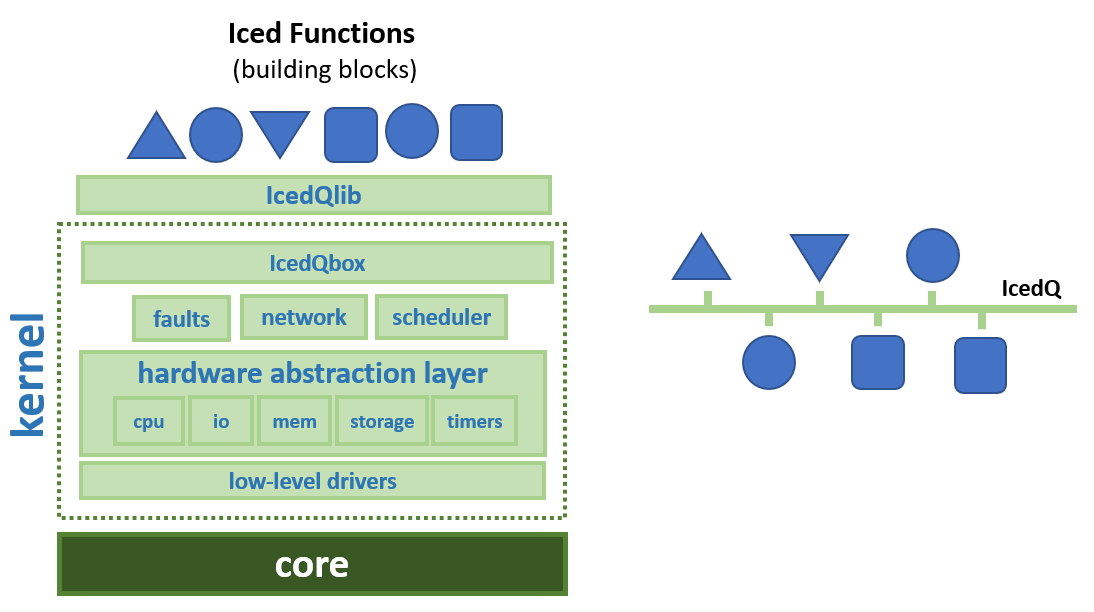
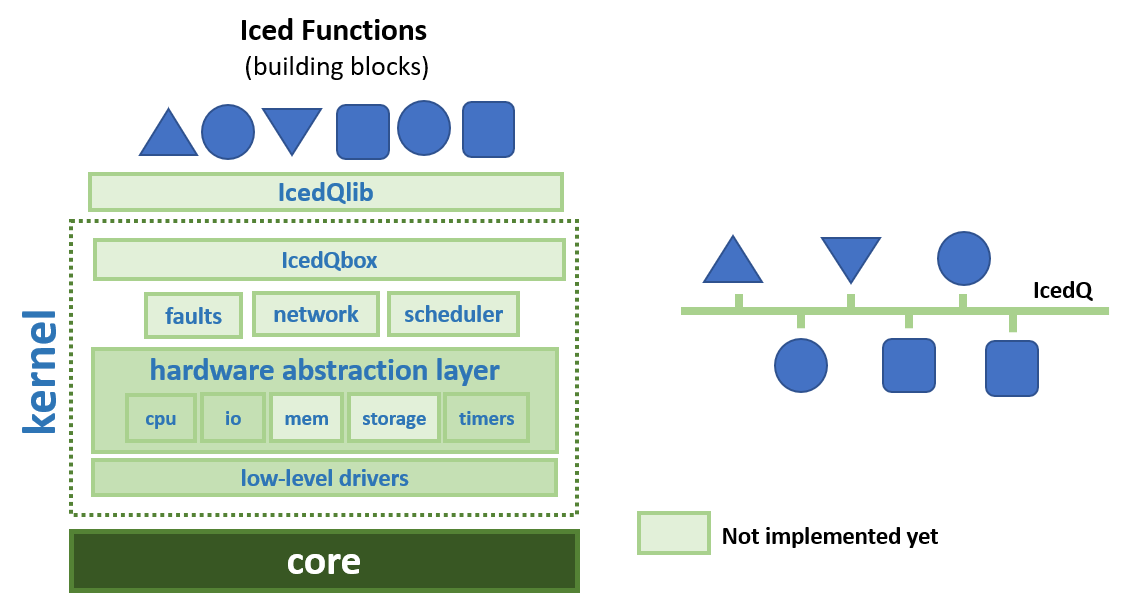
add arch ppt

diff --git a/README.md b/README.md
@@ -6,7 +6,7 @@ Currently supported platforms:
 - [Raspberry PI 3](https://github.com/rromanotero/IcedCoffeeOS/tree/main/cortex-a/RPI3)
 - [Adafruit's Feather RFM69](https://github.com/rromanotero/IcedCoffeeOS/tree/main/cortex-m/feather_rfm69)
 
-Current System Architecture
+Goal System Architecture
 
 <img src="https://github.com/rromanotero/IcedCoffeeOS/blob/master/images/architecture.png" width="640"/>
 
